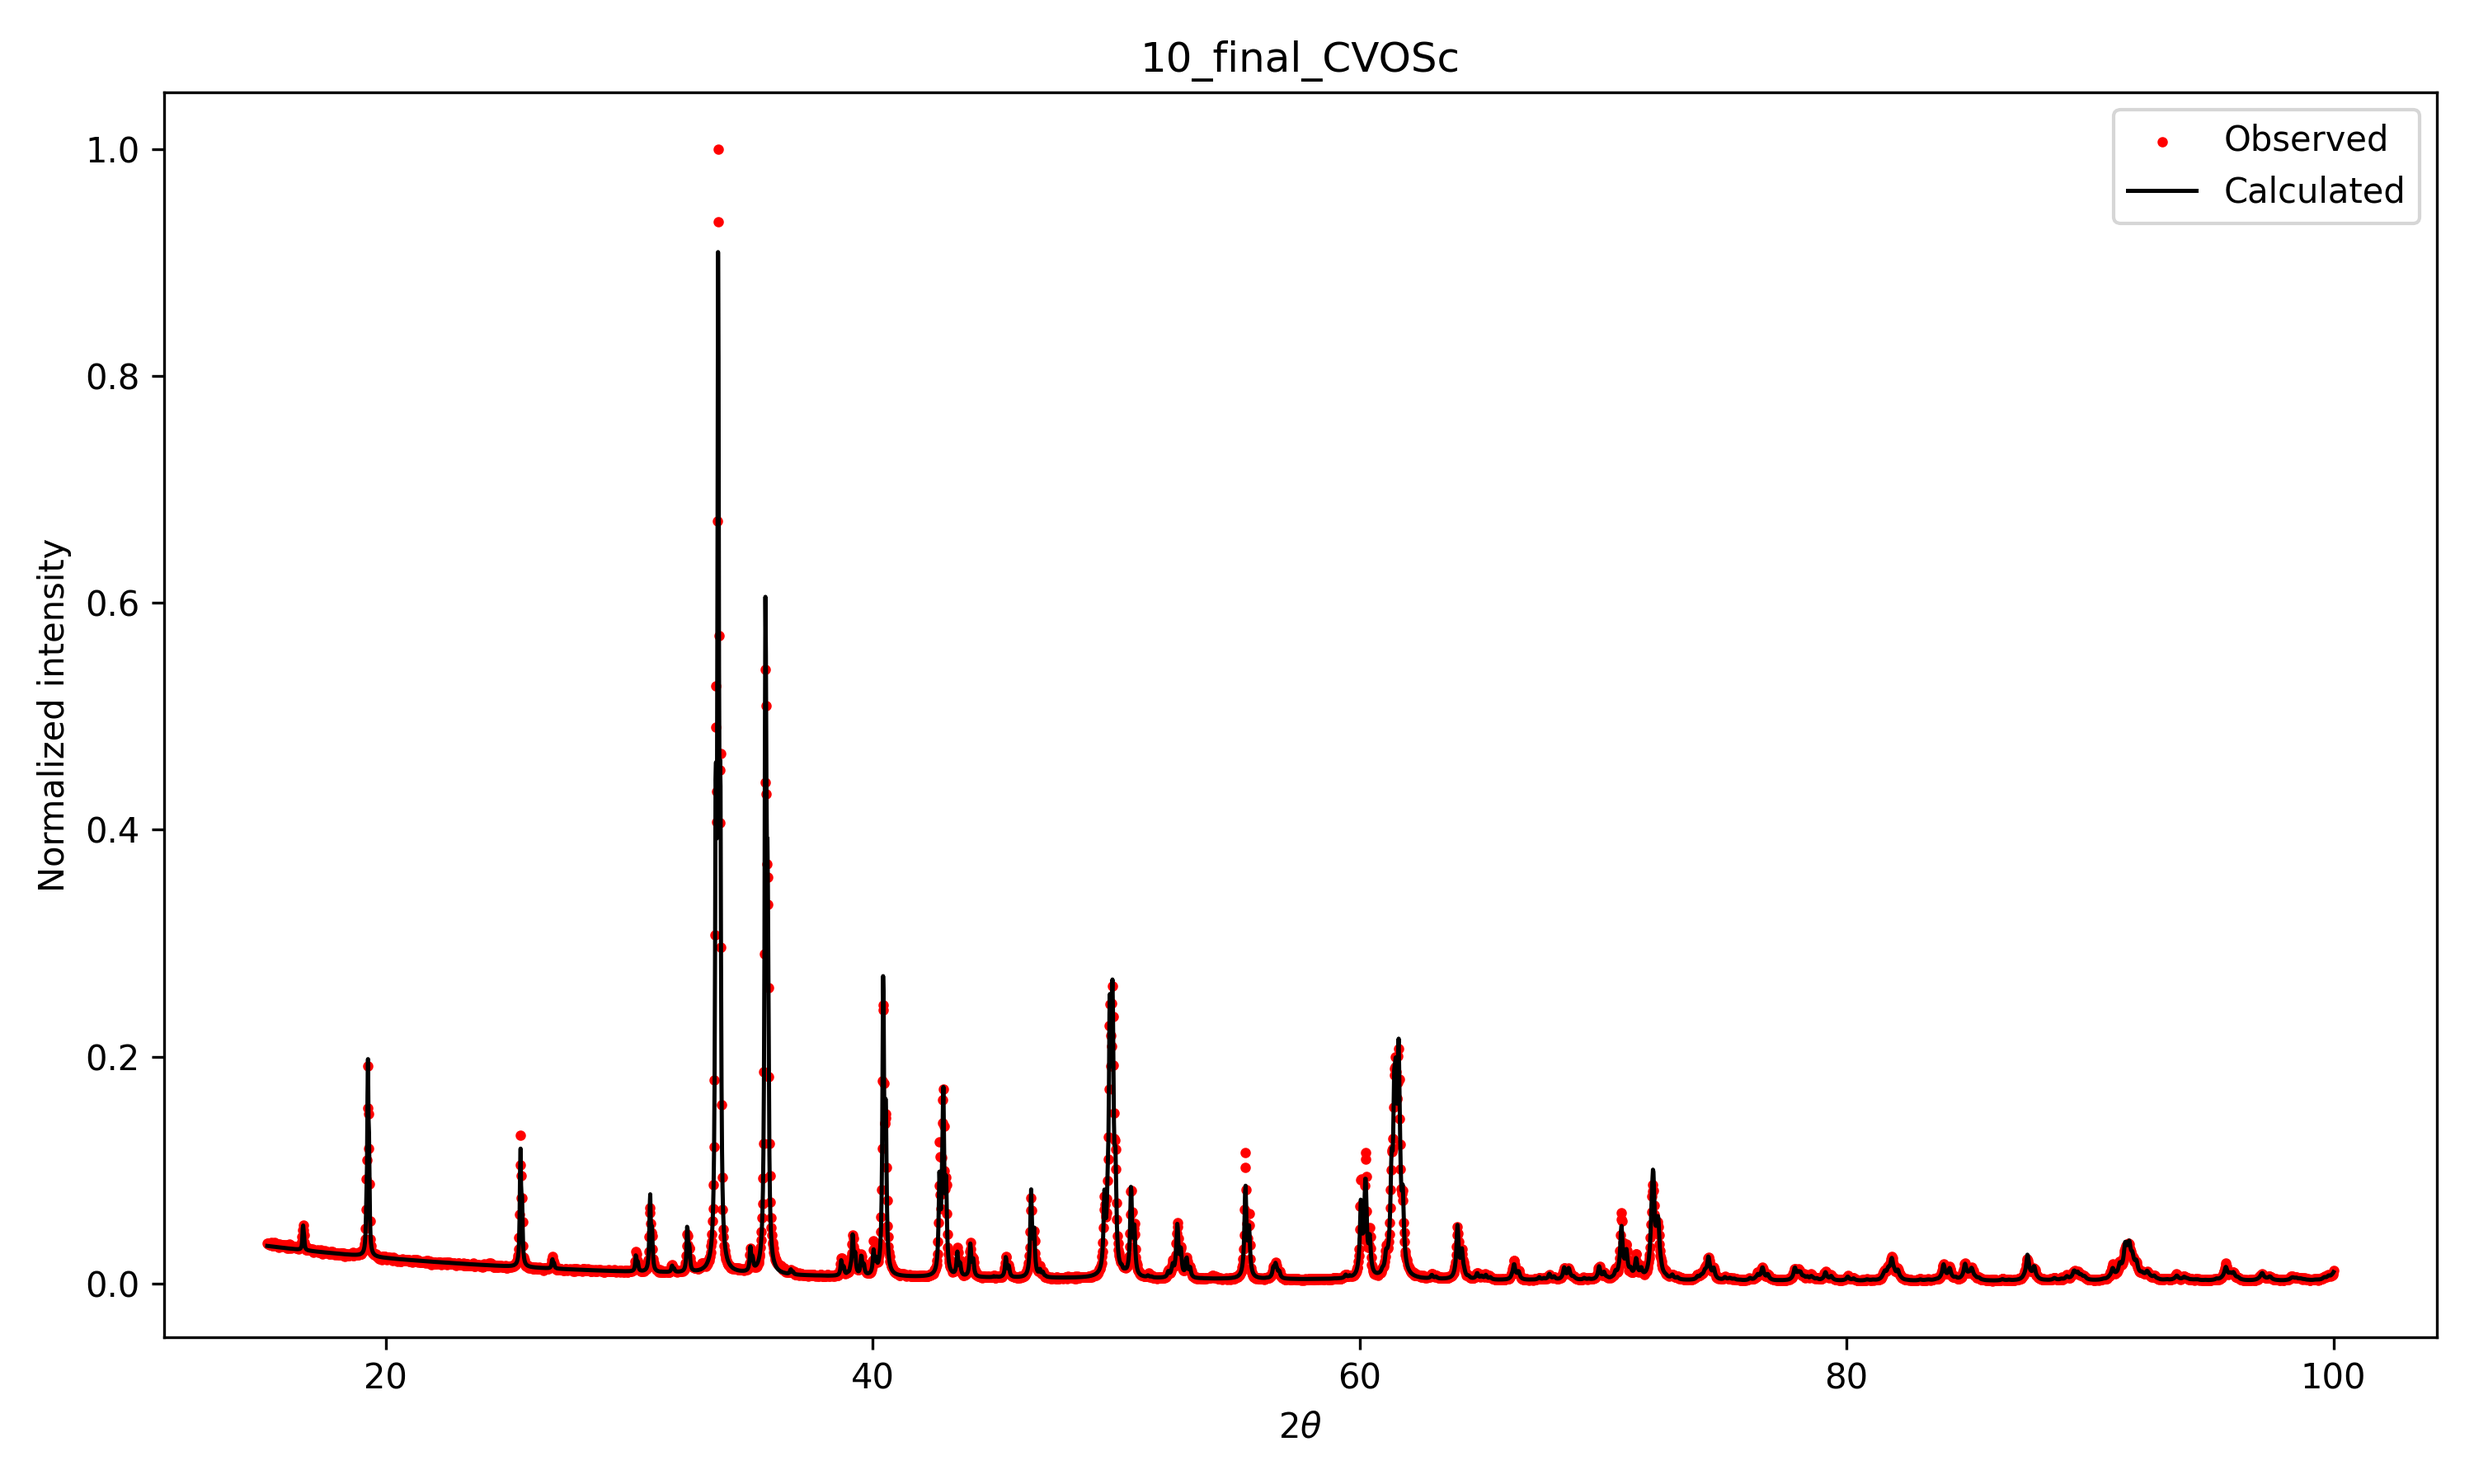
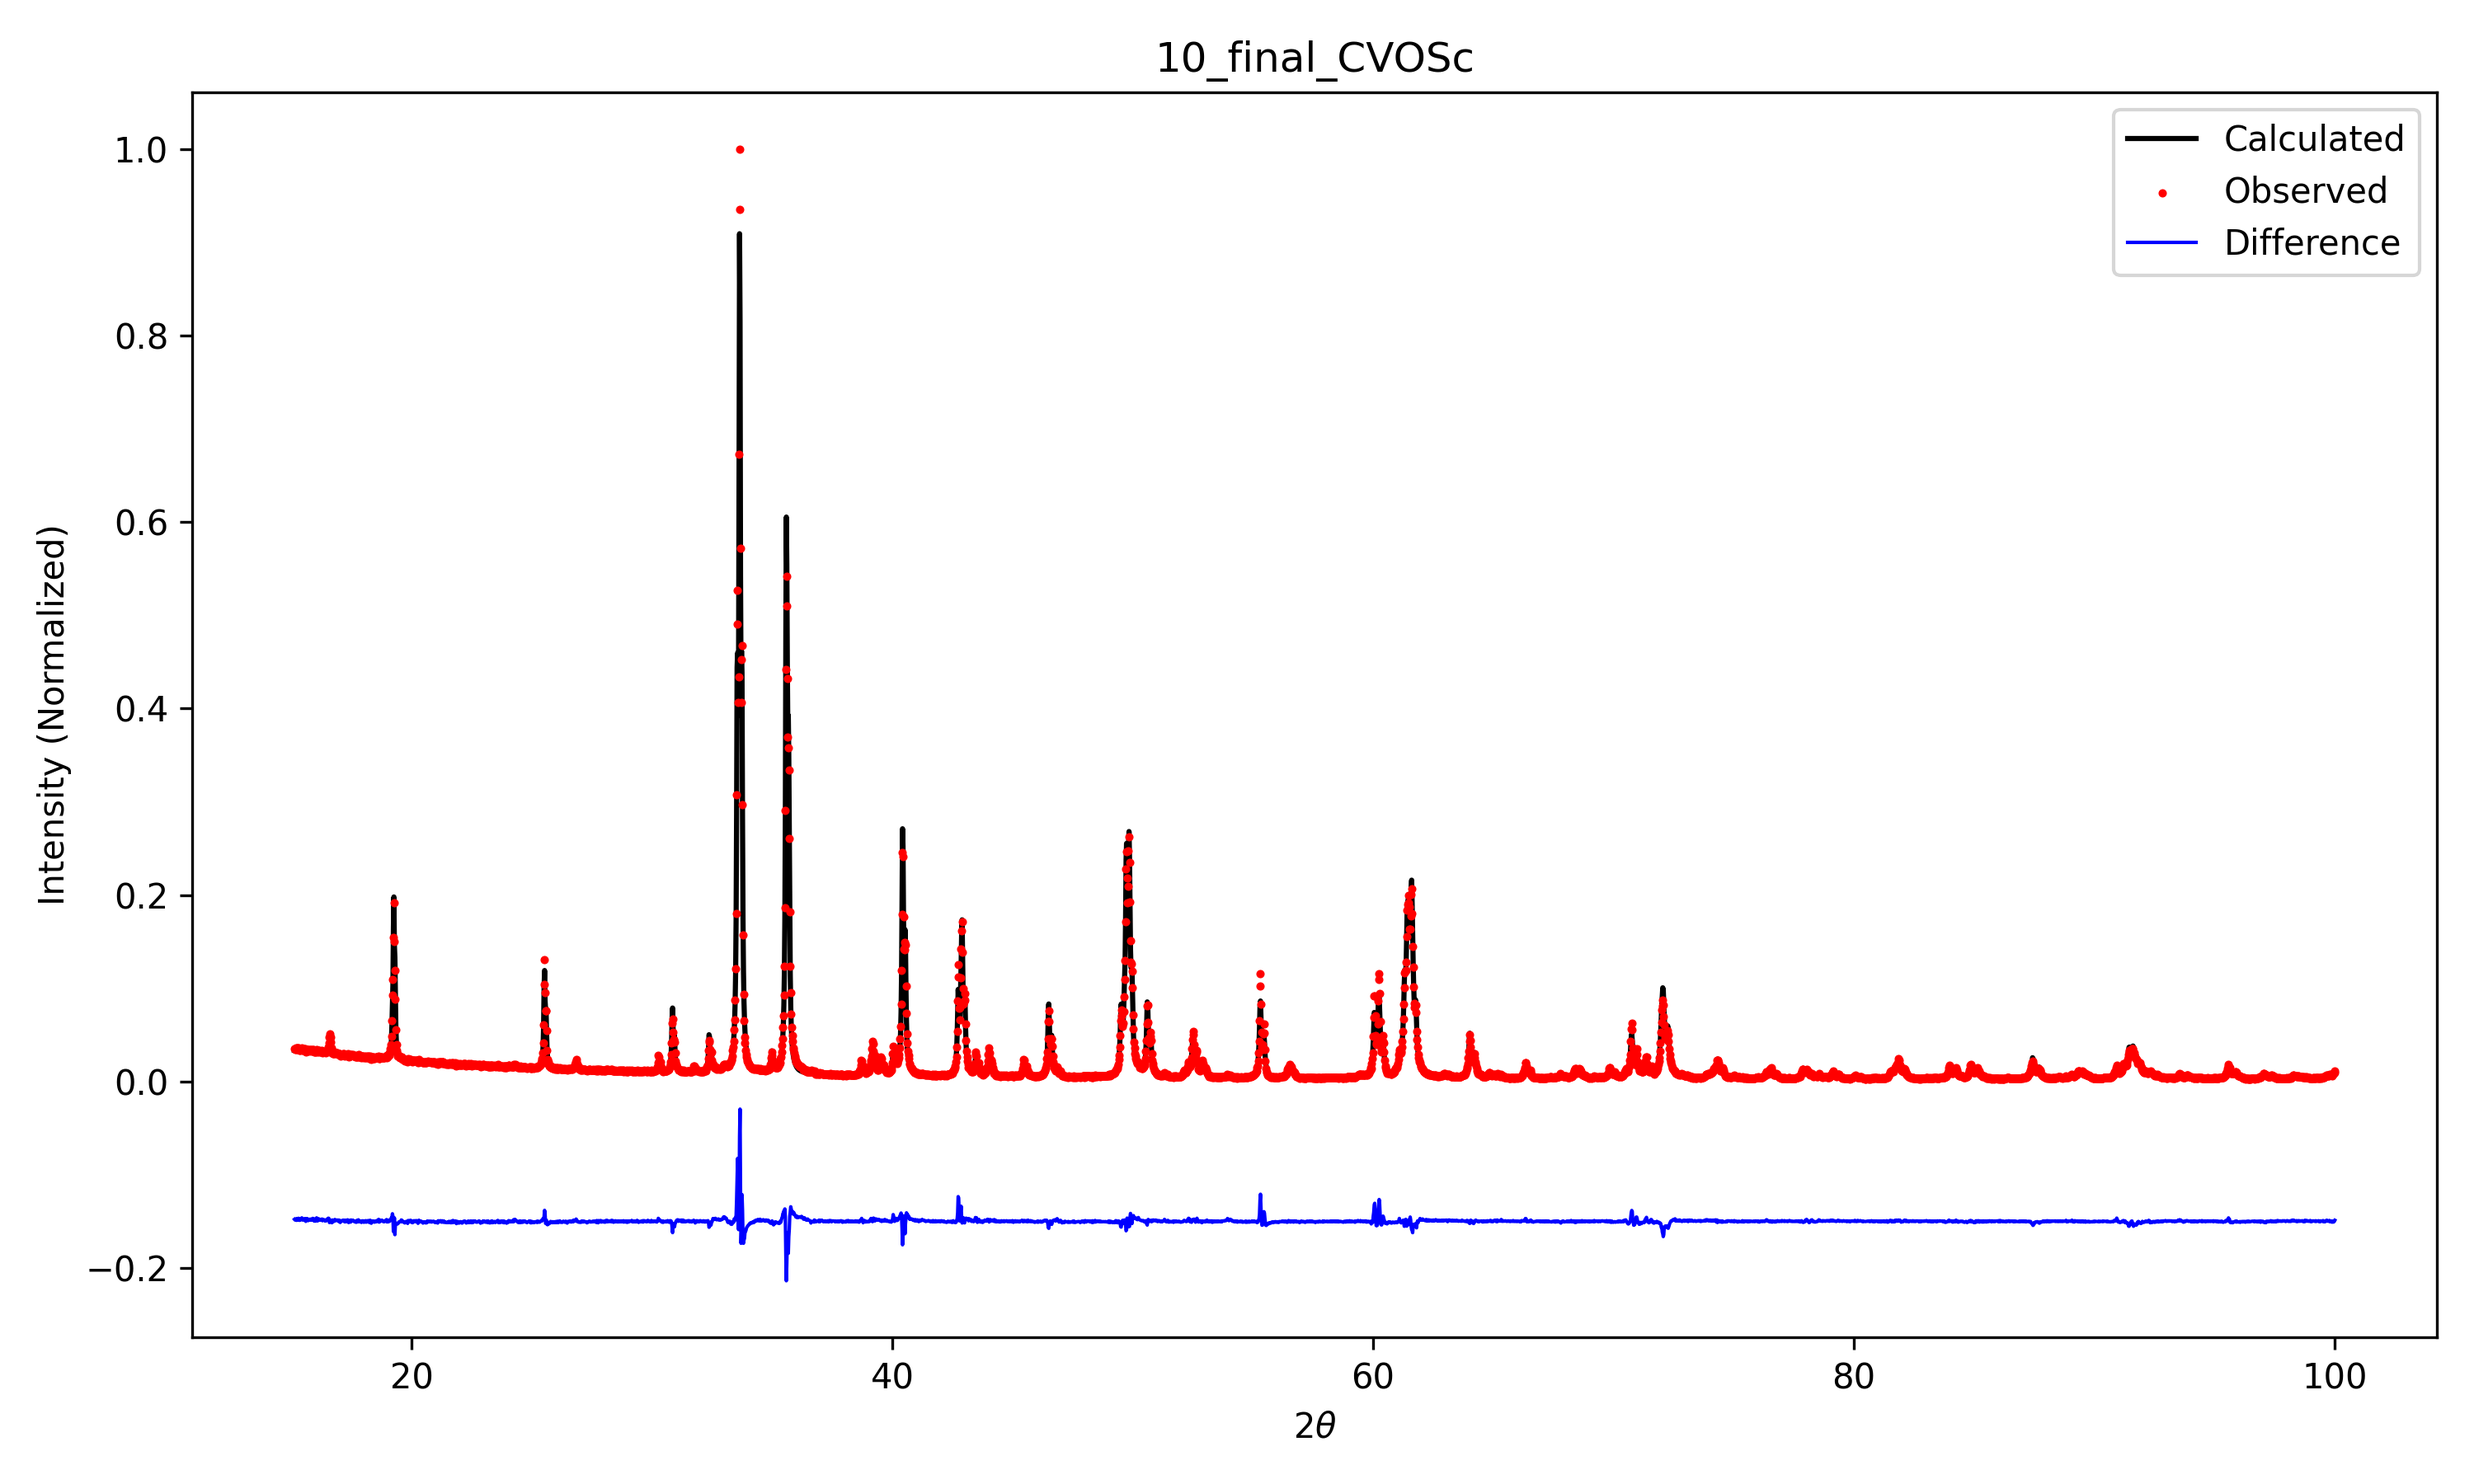
plotting peaks

diff --git a/scripts/plot.py b/scripts/plot.py
@@ -1,32 +1,26 @@
 from pathlib import Path
 import numpy as np
 import matplotlib.pyplot as plt
-#
 
 BASE_DIR = Path(__file__).resolve().parent.parent
 DATA_DIR = BASE_DIR / "evolution"
 FIGURES_DIR = BASE_DIR / "figures"
-
 FIGURES_DIR.mkdir(exist_ok=True)
-
 
 def read_xyn(file_path):
     """
-    Reads XYN file ignoring comment lines starting with '!'.
+    Reads XYN files.
     """
     rows = []
 
     with open(file_path, "r", encoding="utf-8", errors="ignore") as f:
         for line in f:
             line = line.strip()
-
             if not line or line.startswith("!"):
                 continue
-
             parts = line.split()
             if len(parts) < 3:
                 continue
-
             try:
                 rows.append([
                     float(parts[0]),
@@ -35,52 +29,46 @@ def read_xyn(file_path):
                 ])
             except ValueError:
                 continue
-
     return np.array(rows)
 
 
 def plot_pattern(file_path):
-
+    """
+    Plots observed and calculated XYN files.
+    """
     data = read_xyn(file_path)
 
     two_theta = data[:, 0]
     y_obs = data[:, 1]
     y_calc = data[:, 2]
 
-    # Normalize by maximum observed intensity
+    # Normalization
     max_obs = np.max(y_obs)
 
     y_obs = y_obs / max_obs
     y_calc = y_calc / max_obs
-
-    # Compute real difference
-    diff = y_obs - y_calc
-
-    # Shift difference downward
-    shift = -0.4
-    diff_shifted = diff + shift
+    y_diff = y_obs - y_calc
 
     plt.figure(figsize=(10,6))
 
-    # Observed
-    plt.scatter(two_theta, y_obs, s=4, color="red", label="Observed")
-
     # Calculated
-    plt.plot(two_theta, y_calc, color="black", linewidth=1.2, label="Calculated")
+    plt.plot(two_theta, y_calc, color="black", label="Calculated")
 
-    # Difference plt.plot(two_theta, diff_shifted, color="blue", linewidth=1, label="Difference")dddddddddd
+    # Observed
+    plt.scatter(two_theta, y_obs, s=2, color="red", zorder=3, label="Observed")
+
+    # Difference
+    plt.plot(two_theta, y_diff - 0.15, color="blue", linewidth=1, label="Difference")
+
     plt.xlabel(r"2$\theta$")
-    plt.ylabel("Normalized intensity")
+    plt.ylabel("Intensity (Normalized)")
     plt.title(file_path.stem)
-
     plt.legend()
     plt.tight_layout()
 
     output_file = FIGURES_DIR / f"{file_path.stem}.png"
-
     plt.savefig(output_file, dpi=300)
     plt.close()
-
     print(f"Saved figure: {output_file}")
 
 
@@ -97,5 +85,4 @@ def main():
 
 
 if __name__ == "__main__":
-    main()
     main()

diff --git a/scripts/plot_peaks.py b/scripts/plot_peaks.py
@@ -1,0 +1,93 @@
+from pathlib import Path
+import numpy as np
+import matplotlib.pyplot as plt
+from scipy.signal import find_peaks
+
+BASE_DIR = Path(__file__).resolve().parent.parent
+DATA_DIR = BASE_DIR / "evolution"
+FIG_DIR = BASE_DIR / "figures" / "zoom_peaks"
+
+FIG_DIR.mkdir(parents=True, exist_ok=True)
+
+# final XYN file
+XYN_FILE = DATA_DIR / "10_final_CVOSc.XYN"
+
+def read_xyn(file_path):
+    """
+    Reads XYN files.
+    """
+    rows = []
+
+    with open(file_path, "r", encoding="utf-8", errors="ignore") as f:
+        for line in f:
+            line = line.strip()
+            if not line or line.startswith("!"):
+                continue
+            parts = line.split()
+            if len(parts) < 3:
+                continue
+            try:
+                rows.append([
+                    float(parts[0]),
+                    float(parts[1]),
+                    float(parts[2])
+                ])
+            except ValueError:
+                continue
+    return np.array(rows)
+
+
+def main():
+
+    data = read_xyn(XYN_FILE)
+
+    two_theta = data[:, 0]
+    y_obs = data[:, 1]
+    y_calc = data[:, 2]
+
+    # normalization
+    max_obs = np.max(y_obs)
+
+    y_obs = y_obs / max_obs
+    y_calc = y_calc / max_obs
+    y_diff = y_obs - y_calc
+
+    # detect peaks
+    peaks, _ = find_peaks(y_obs, height=0.2, distance=50)
+
+    # take 5 highest peaks
+    peak_heights = y_obs[peaks]
+    strongest = peaks[np.argsort(peak_heights)[-5:]]
+
+    strongest = sorted(strongest)
+
+    window = 0.4
+
+    for i, p in enumerate(strongest):
+
+        center = two_theta[p]
+
+        mask = (two_theta > center - window) & (two_theta < center + window)
+
+        plt.figure(figsize=(10,6))
+
+        plt.plot(two_theta[mask], y_calc[mask], color="black", label="Calculated")
+        plt.scatter(two_theta[mask], y_obs[mask], s=4, color="red", zorder=3, label="Observed")
+        plt.plot(two_theta[mask], y_diff[mask] - 0.15, linestyle=":", color="blue", linewidth=1, label="Difference")
+
+        plt.xlabel(r"2$\theta$")
+        plt.ylabel("Intensity (Normalized)")
+        plt.title(f"Peak near {center:.2f}°")
+        plt.legend()
+        plt.tight_layout()
+
+        out = FIG_DIR / f"zoom_peak_near_{center:.2f}.png"
+
+        plt.savefig(out, dpi=300)
+        plt.close()
+
+        print(f"Saved {out}")
+
+
+if __name__ == "__main__":
+    main()
